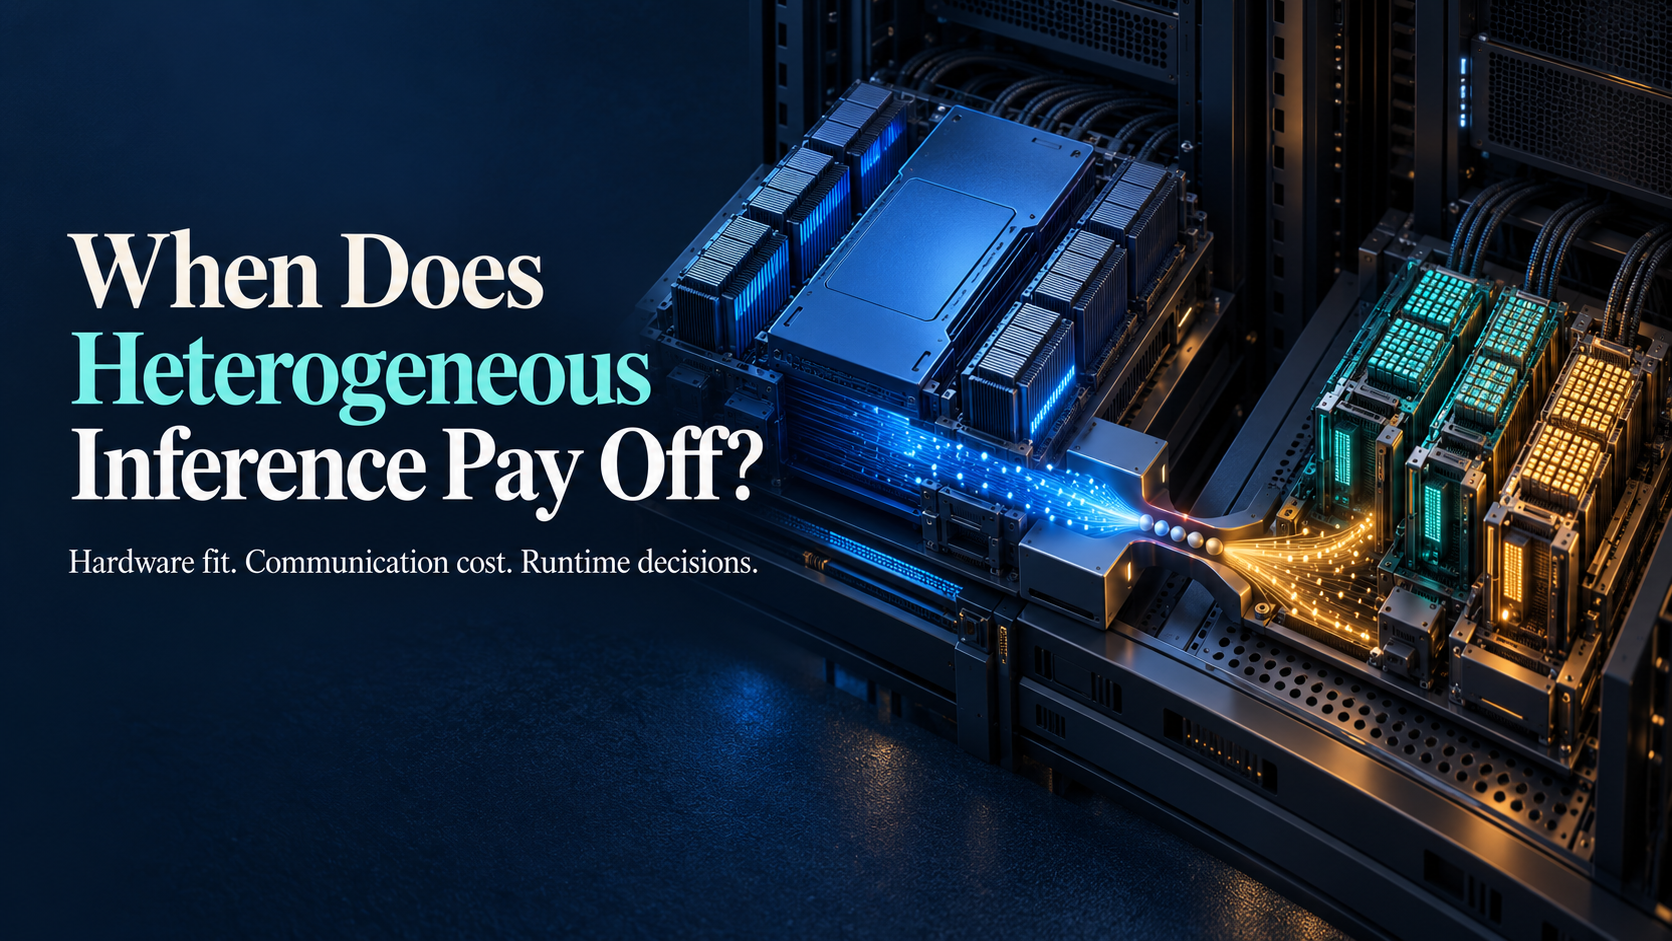
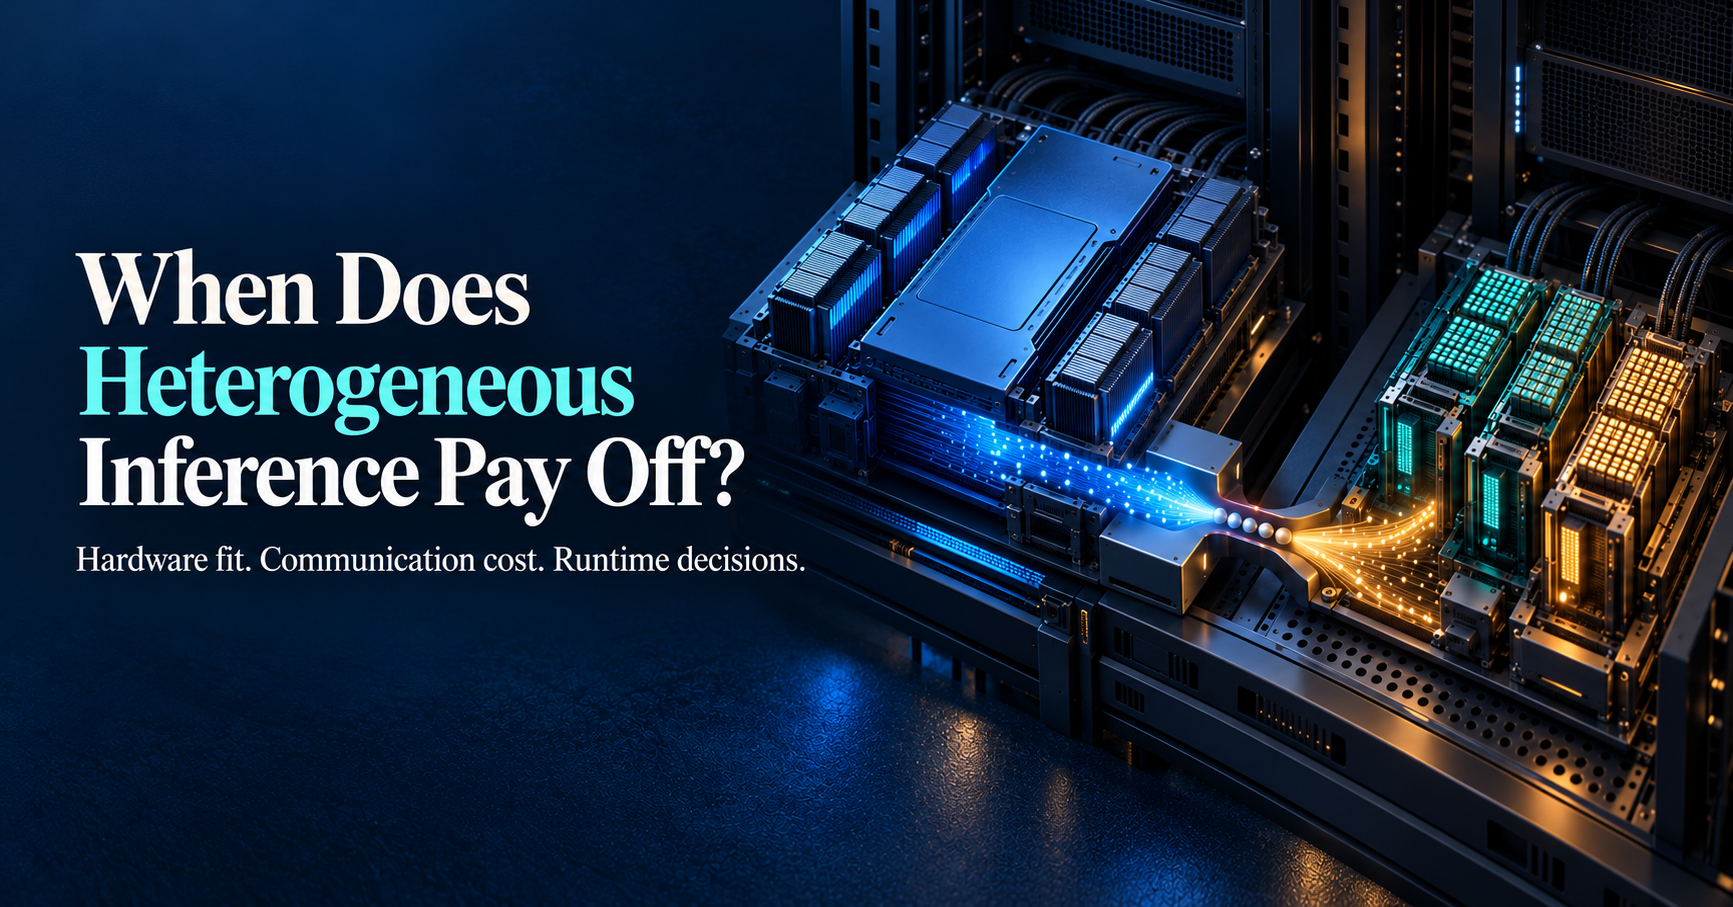
Add new blog post to root index.html and update cover image

diff --git a/when-does-heterogeneous-inference-pay-off/index.html b/when-does-heterogeneous-inference-pay-off/index.html
@@ -13,8 +13,8 @@
   <meta property="og:description"
         content="A practical analysis of when splitting LLM inference across different hardware repays communication, synchronization, and scheduling costs.">
   <meta property="og:image" content="https://lun0522.github.io/when-does-heterogeneous-inference-pay-off/cover.png">
-  <meta property="og:image:width" content="1672">
-  <meta property="og:image:height" content="941">
+  <meta property="og:image:width" content="1733">
+  <meta property="og:image:height" content="907">
   <meta property="og:image:alt"
         content="Heterogeneous hardware cooperating to run different stages of LLM inference.">
   <meta property="og:url" content="https://lun0522.github.io/when-does-heterogeneous-inference-pay-off/">

diff --git a/index.html b/index.html
@@ -8,6 +8,7 @@
 <body>
   <main>
     <h1>Pujun Lun — Technical Writing</h1>
+    <p><a href="/when-does-heterogeneous-inference-pay-off/">When Does Heterogeneous Inference Pay Off?</a></p>
     <p><a href="/building-an-llm-inference-engine/">Building an LLM Inference Engine with AI: The Code Was the Easy Part</a></p>
   </main>
 </body>
